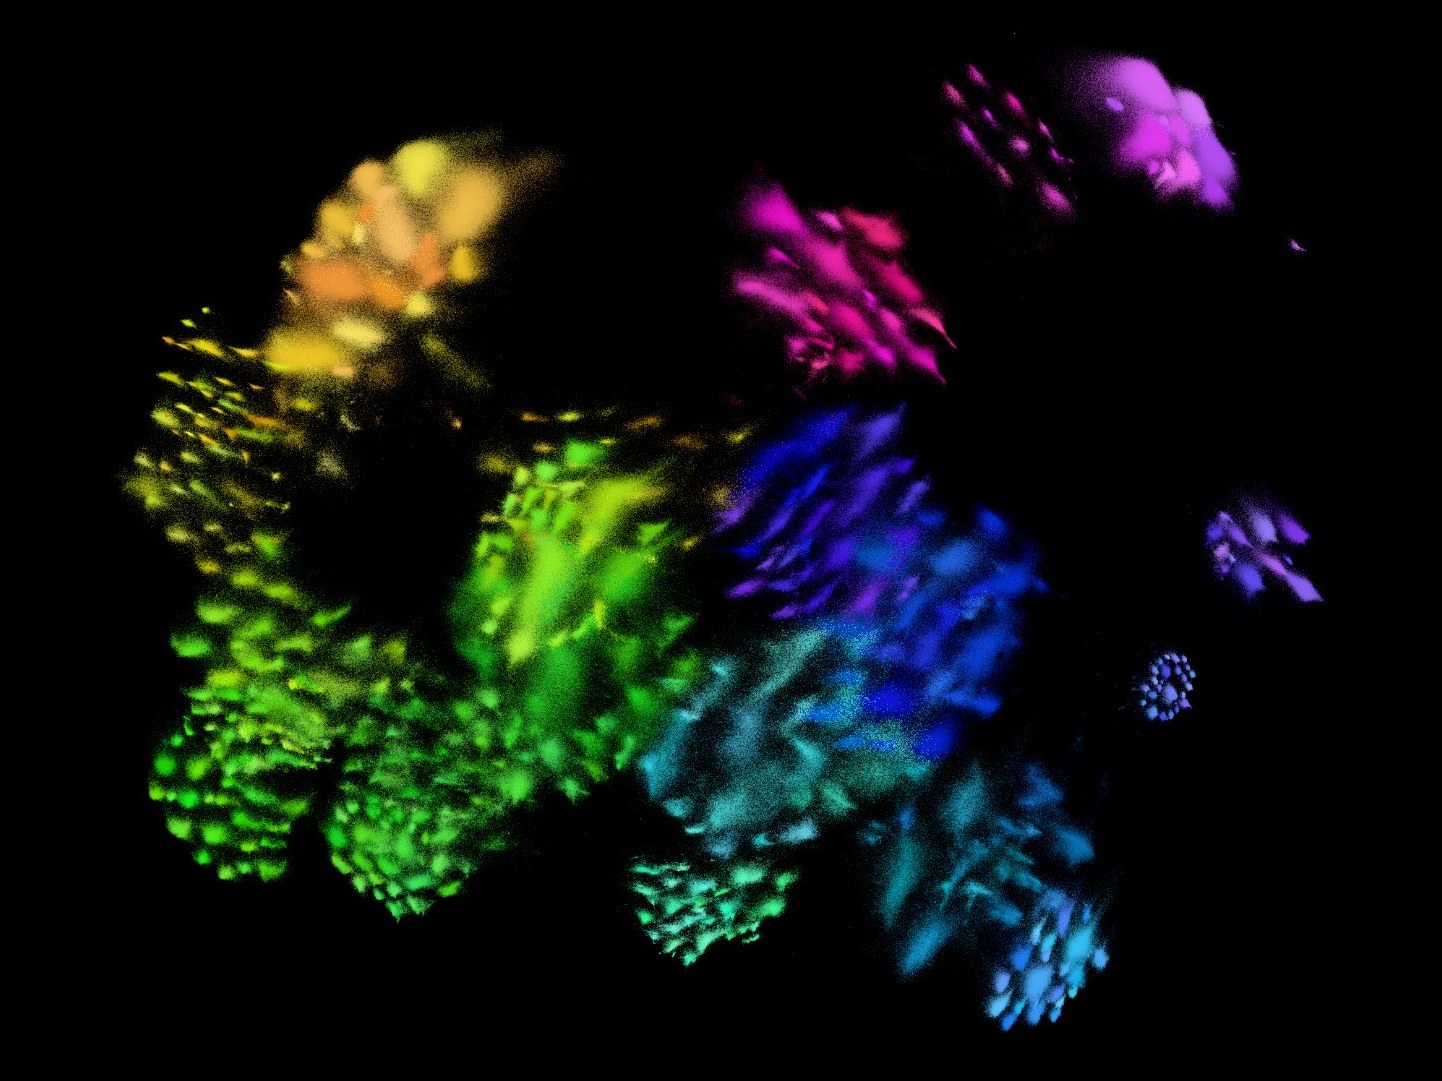
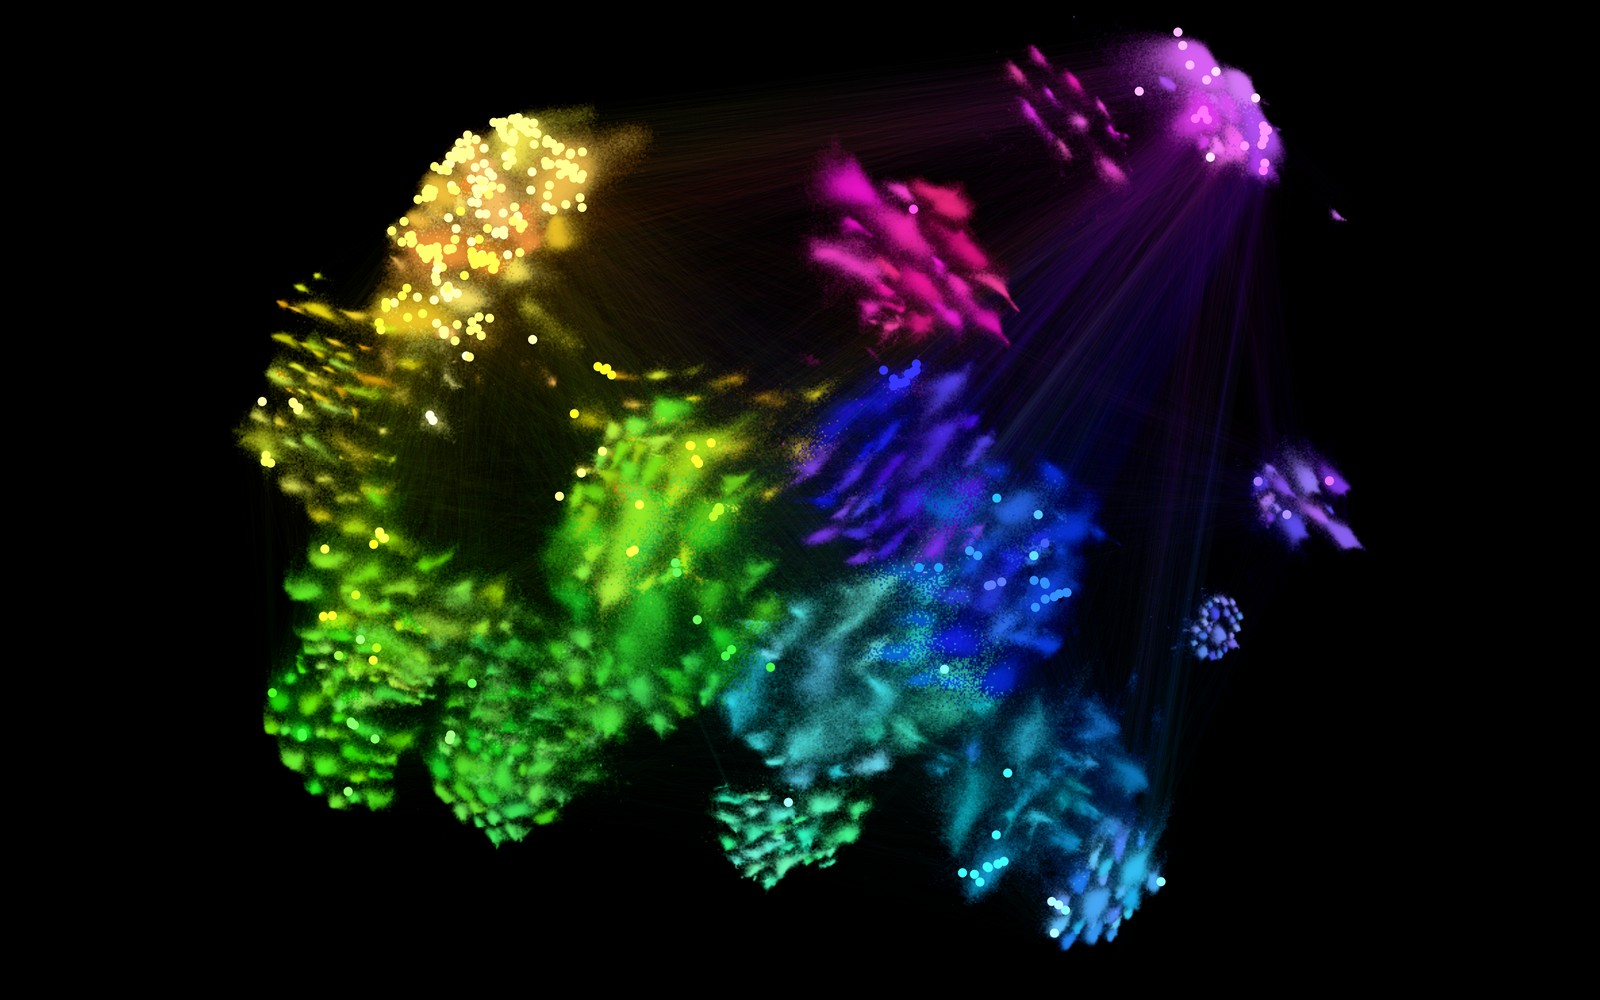
docs: README shows the promo GIF and the map as it now opens
docs/mapademic.gif (960px, 12 fps, 22MB): connection lines, the map, a zoom
into economics, and Connect drawing Somik Lall -> Amy Dittmar, recorded
after the dot-alignment fix. docs/map.jpg is the new first-visit default
(top-author dots on, faint connection lines, no cosmic dust). The static
Connect screenshot is gone; the GIF shows the same path.

diff --git a/README.md b/README.md
@@ -15,15 +15,13 @@ by [riptideiv](https://github.com/riptideiv); see
 
 **Live map: [mapademic.app](https://mapademic.app)**
 
-![The whole map, without the dust of loosely connected authors: coauthorship communities colored by their position around the map center, each packed into sub-areas, brightness by author density](docs/map.jpg)
+![Mapademic in 17 seconds: the 1 million strongest coauthor ties, then 8.4 million researchers placed by who they write papers with, a zoom into economics, and Connect drawing the shortest coauthor chain from Somik Lall to Amy Dittmar](docs/mapademic.gif)
 
-![Connect across economics: Somik Lall to Amy Dittmar through Raghuram Rajan and Henri Servaes, in a straight line from development economics to corporate finance, each step labelled with a paper the two wrote together](docs/connect.jpg)
+*Mapademic in 17 seconds: the strongest coauthor ties, the map itself, a zoom
+into economics, and Connect finding the shortest chain of coauthors from Somik
+Lall to Amy Dittmar, one shared paper per step.*
 
-*Connect across economics: Somik Lall → Raghuram Rajan → Henri Servaes → Amy
-Dittmar. Each researcher sits among their own coauthors, so the path walks
-from the development economists (near Acemoglu, Sen and Stiglitz) to the
-corporate-finance researchers (near Fama, Stulz and Harvey), one shared paper
-per step.*
+![The map as it opens: coauthorship communities colored by their position around the map center, the most-cited researchers as bright dots, and faint lines joining the million most frequent coauthor pairs](docs/map.jpg)
 
 ## Features
 
